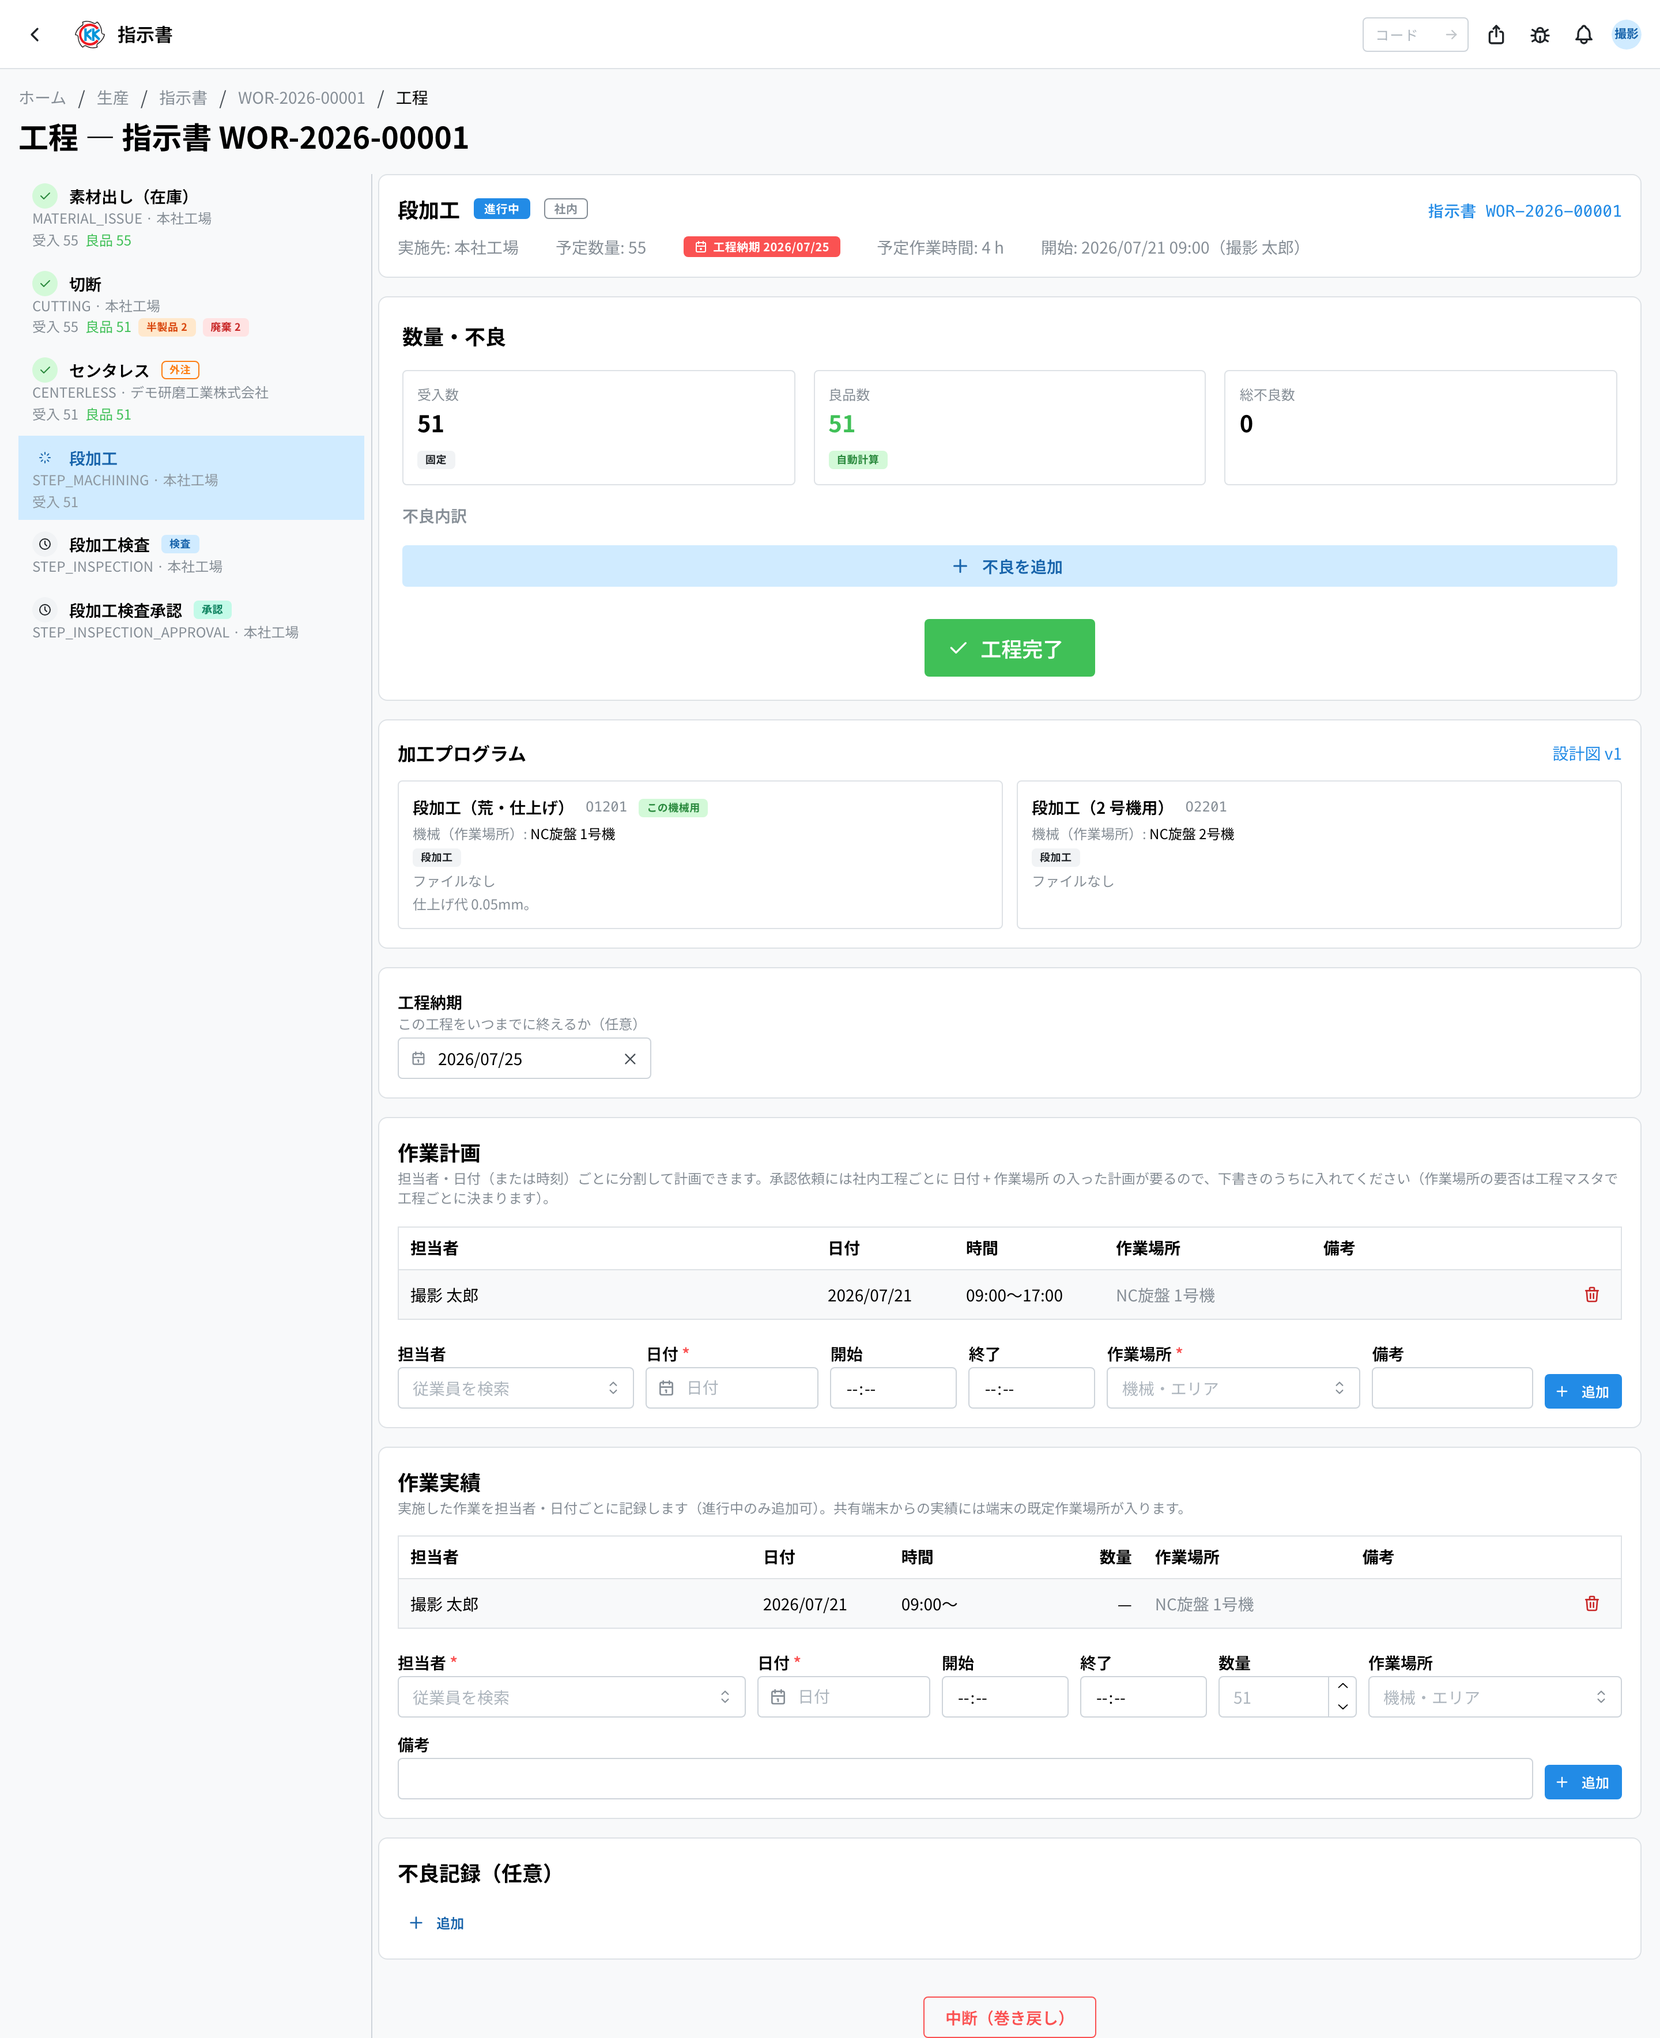
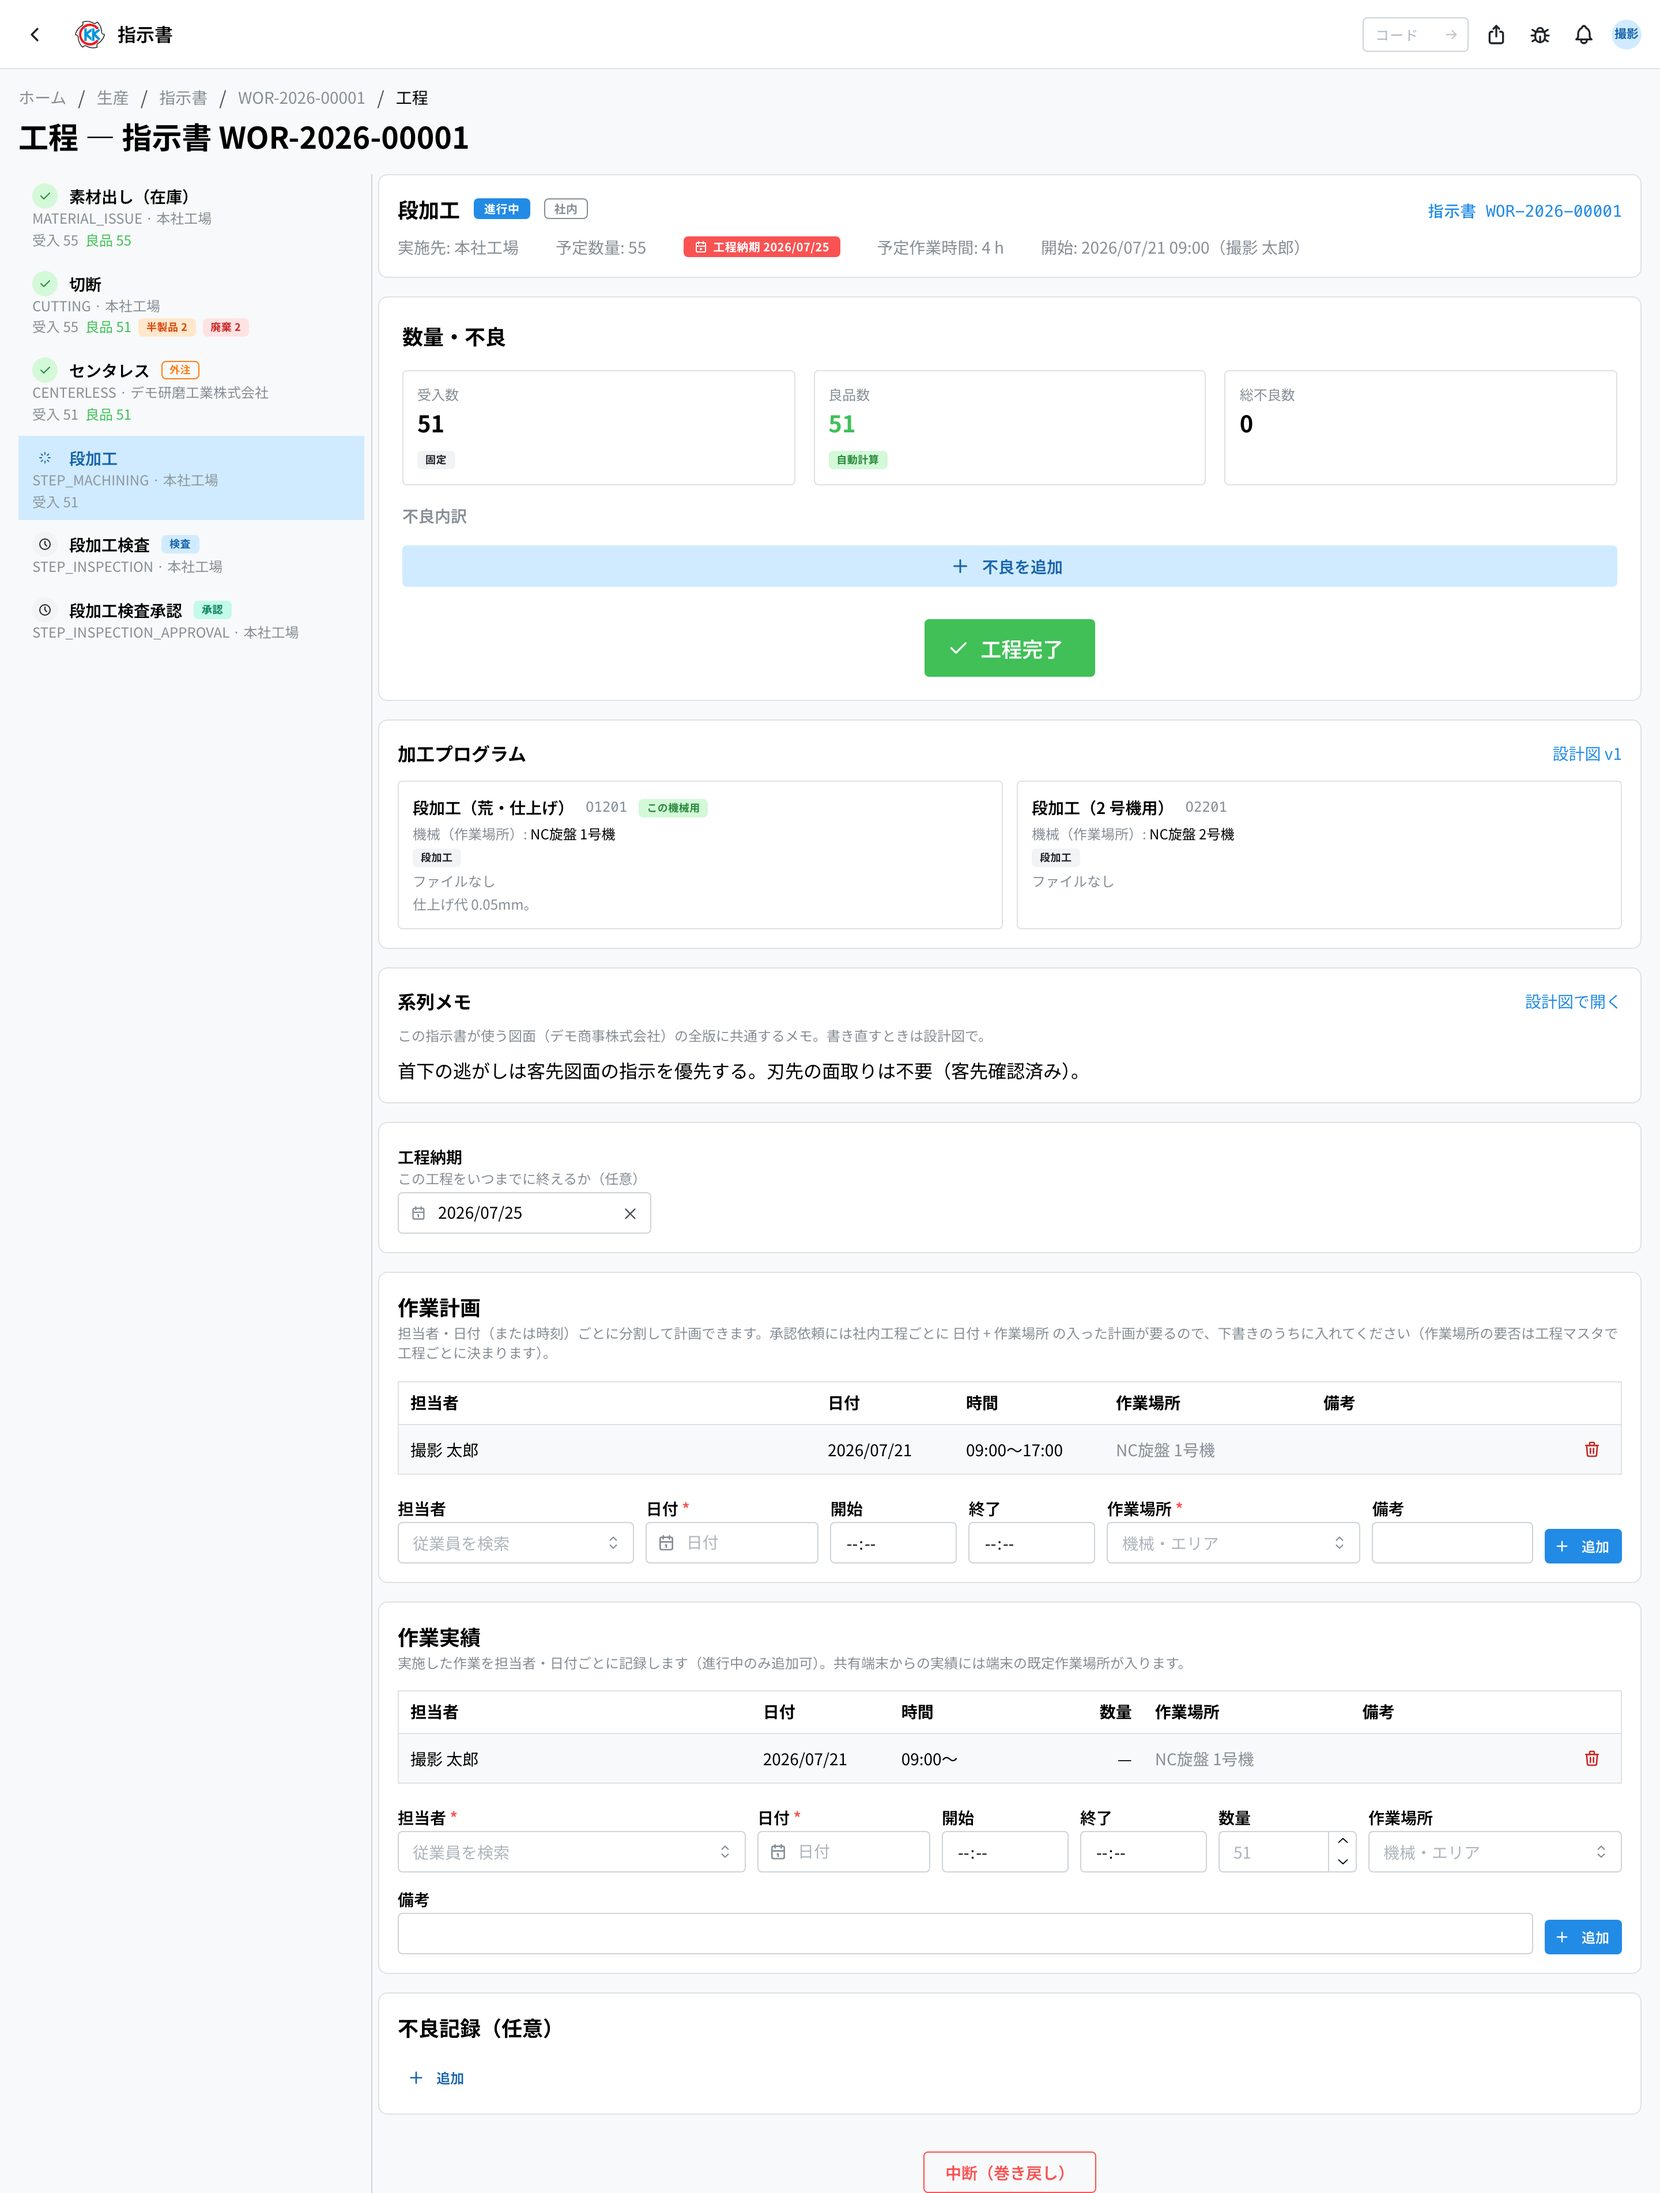
docs(manual): 系列メモの撮影 2 枚を足し、分割の印字番号・系列メモが出る画面を撮り直す

diff --git a/tools/docs-screenshots/manifest.ts b/tools/docs-screenshots/manifest.ts
@@ -458,6 +458,31 @@ export const shots: Shot[] = [
     mask: ['[title$="を拡大"]'],
   },
   {
+    // 版の画面の系列メモ（製品の画面と同じ 1 件。版の画面からも書ける）。
+    id: "design-version-series-memo-01",
+    docPage: "operations/production/design-file/user",
+    path: "/production/design-files/versions/d9000000-0000-4000-8000-000000000003",
+    clip: "[data-series-memo]",
+    steps: async (page) => {
+      const panel = page.locator("[data-series-memo]");
+      await panel.waitFor();
+      // 固定フッターの下に隠れないよう、画面の真ん中へ寄せてから撮る。
+      await panel.evaluate((el) => el.scrollIntoView({ block: "center" }));
+    },
+  },
+  {
+    // 工程実行画面の系列メモ（読むだけ — 指示書の顧客の系列のもの）。
+    id: "work-order-step-series-memo-01",
+    docPage: "operations/production/design-file/user",
+    path: "/production/work-orders/9001/steps/dc011000-0000-4000-8000-000000000004",
+    clip: "[data-series-memo]",
+    steps: async (page) => {
+      const panel = page.locator("[data-series-memo]");
+      await panel.waitFor();
+      await panel.evaluate((el) => el.scrollIntoView({ block: "center" }));
+    },
+  },
+  {
     // 登録フォーム — 役割ごとのファイル枠（2D 原図 / 3D 原図 / プレビュー / 参考資料）。
     id: "design-file-new-01",
     docPage: "operations/production/design-file/user",
